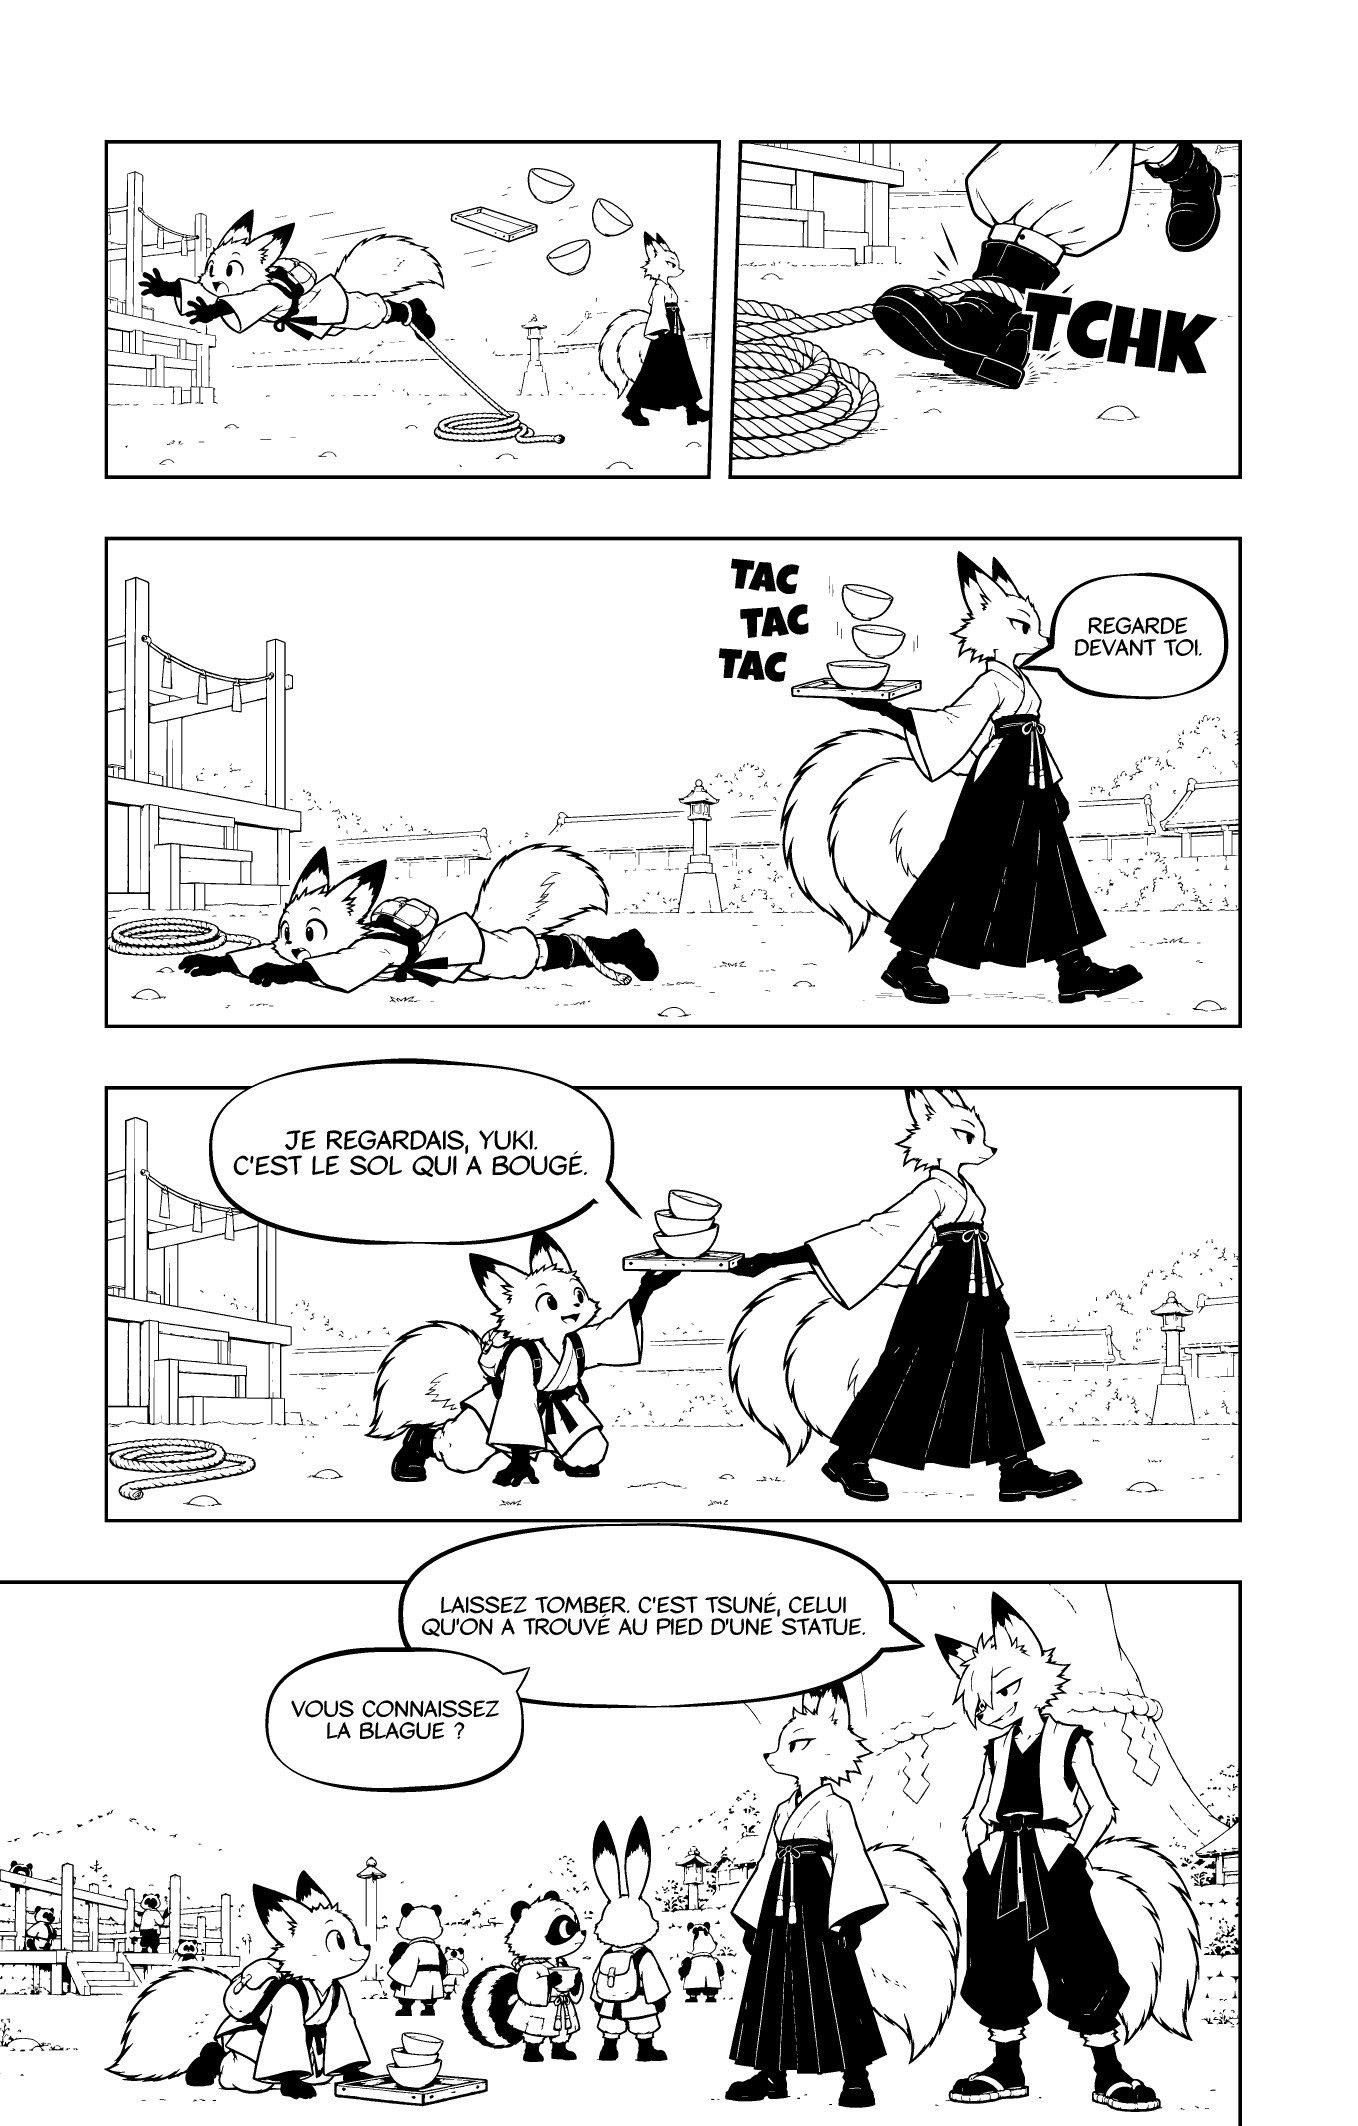
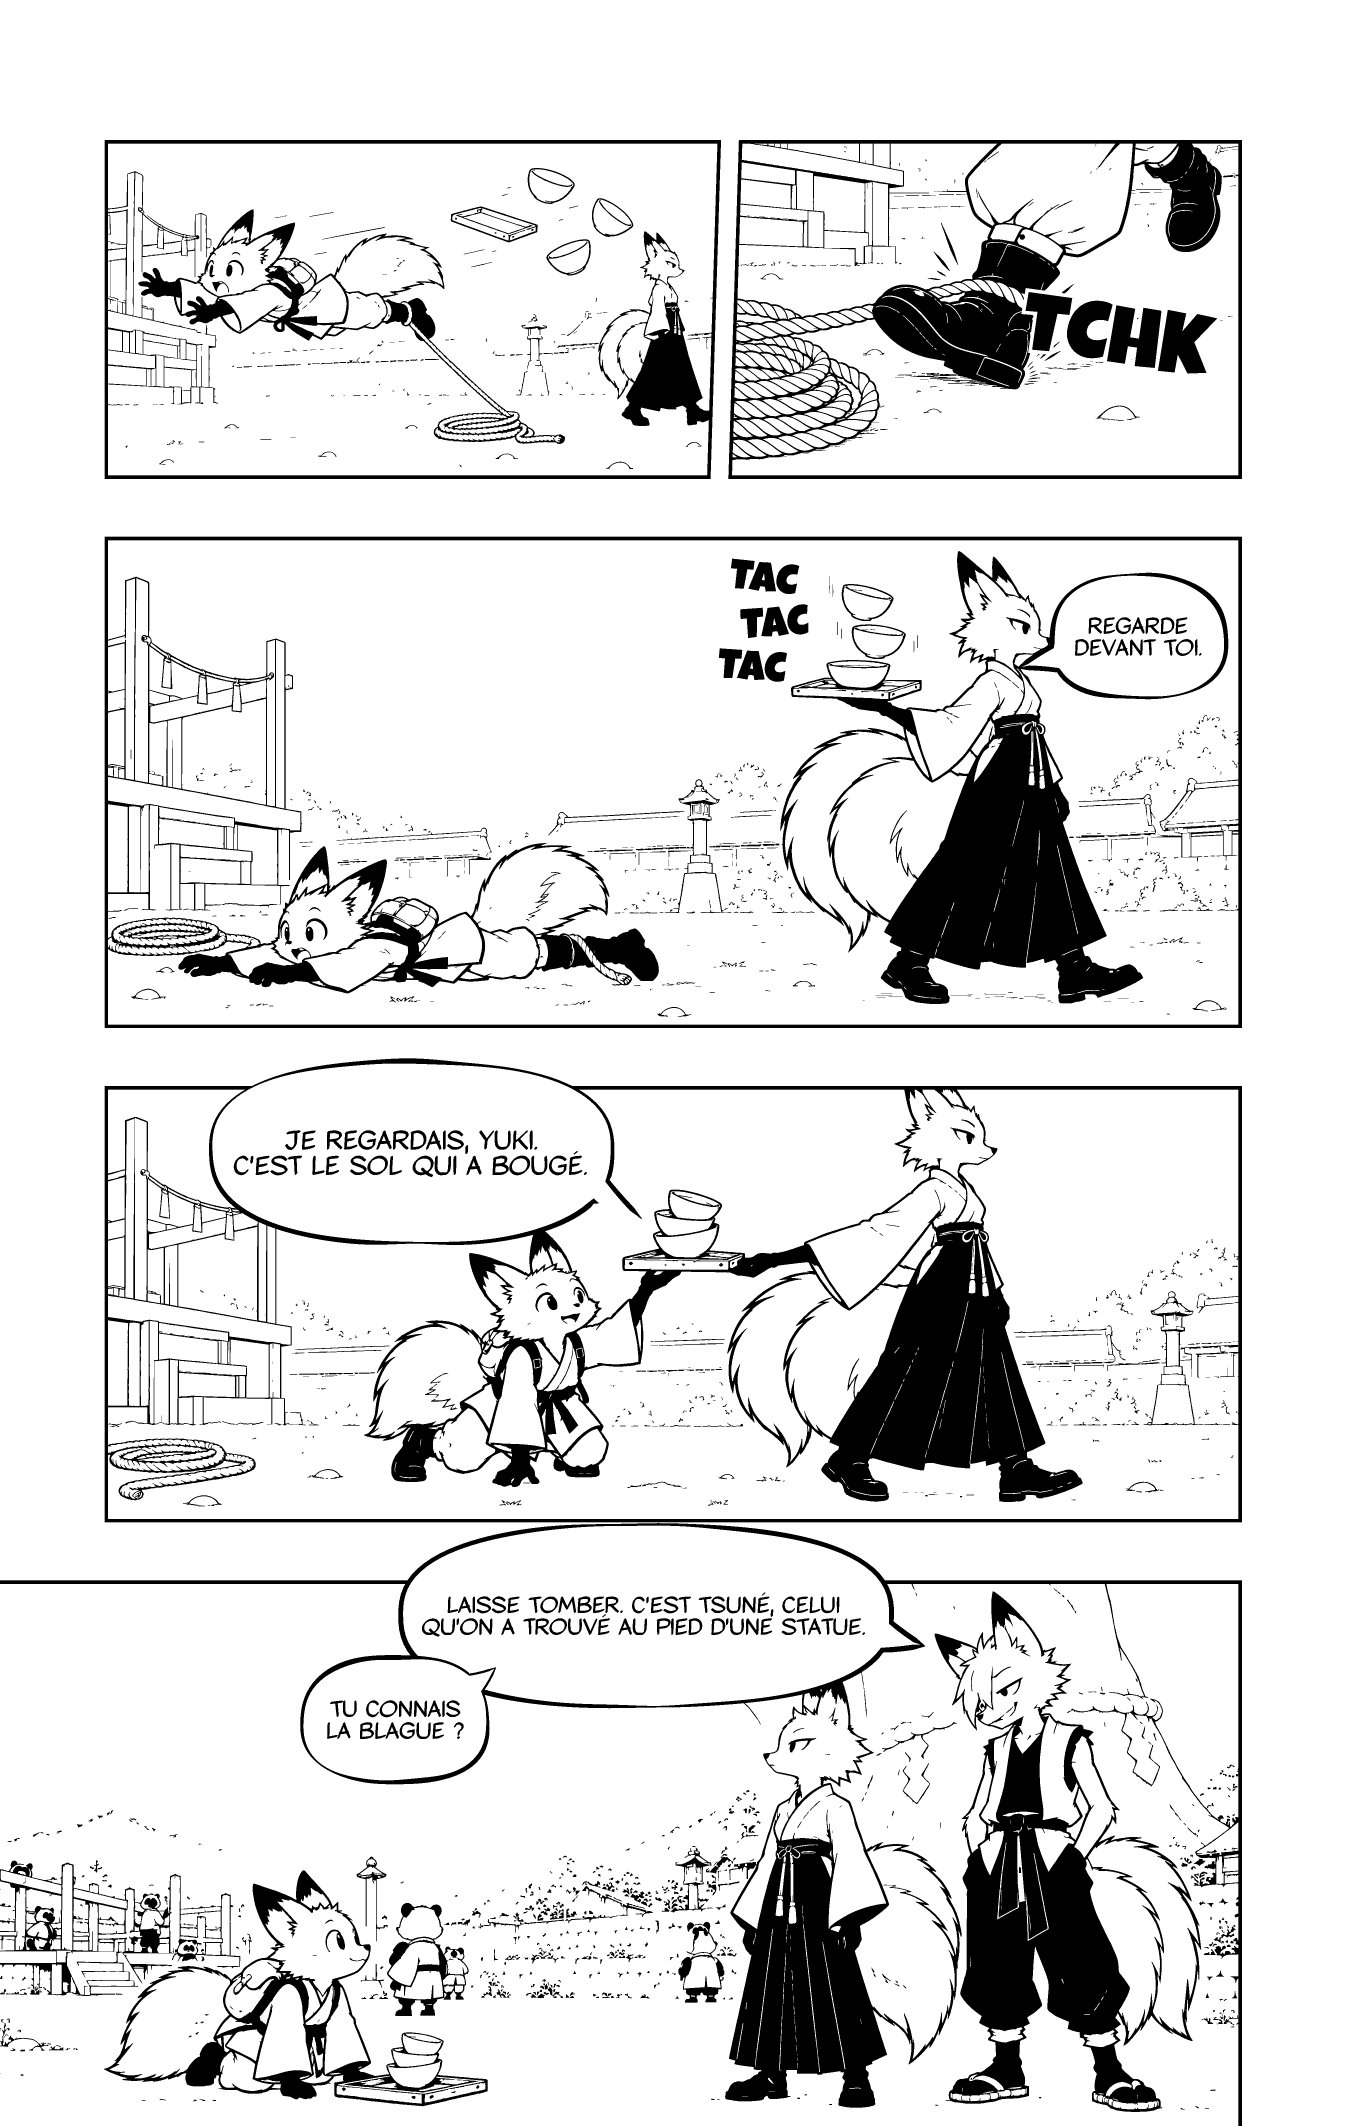
Les 14 premières pages de Tsuné

Changed region(s): [[0.3402, 0.8382, 0.4948, 0.9934], [0.2165, 0.7451, 0.6186, 0.8382], [0.2784, 0.8382, 0.3093, 0.8692]]

diff --git a/index.html b/index.html
@@ -2,9 +2,9 @@
 <html lang="fr"><head><meta charset="utf-8">
 <meta name="viewport" content="width=device-width, initial-scale=1, viewport-fit=cover">
 <title>Tsuné</title>
-<meta name="description" content="Les 11 premières pages">
+<meta name="description" content="Les 14 premières pages">
 <meta property="og:title" content="Tsuné">
-<meta property="og:description" content="Les 11 premières pages">
+<meta property="og:description" content="Les 14 premières pages">
 <meta property="og:type" content="website">
 <meta property="og:url" content="https://florianzilliox.github.io/tsune/">
 <meta property="og:image" content="https://florianzilliox.github.io/tsune/pages/p1.png">

diff --git a/versions.js b/versions.js
@@ -1,6 +1,6 @@
 window.LISEUSE = {
  "titre": "Tsuné",
- "sous_titre": "Les 11 premières pages",
+ "sous_titre": "Les 14 premières pages",
  "ratio": 0.63876,
  "public": true,
  "versions": [
@@ -51,6 +51,18 @@ window.LISEUSE = {
     {
      "n": 11,
      "src": "pages/p11.png"
+    },
+    {
+     "n": 12,
+     "src": "pages/p12.png"
+    },
+    {
+     "n": 13,
+     "src": "pages/p13.png"
+    },
+    {
+     "n": 14,
+     "src": "pages/p14.png"
     }
    ]
   }

diff --git a/README.md b/README.md
@@ -1,6 +1,6 @@
 # Tsuné
 
-Les 11 premières pages d'un manga en noir et blanc, à lire en ligne, de droite à gauche :
+Les 14 premières pages d'un manga en noir et blanc, à lire en ligne, de droite à gauche :
 **https://florianzilliox.github.io/tsune/**
 
 Tous droits réservés.
